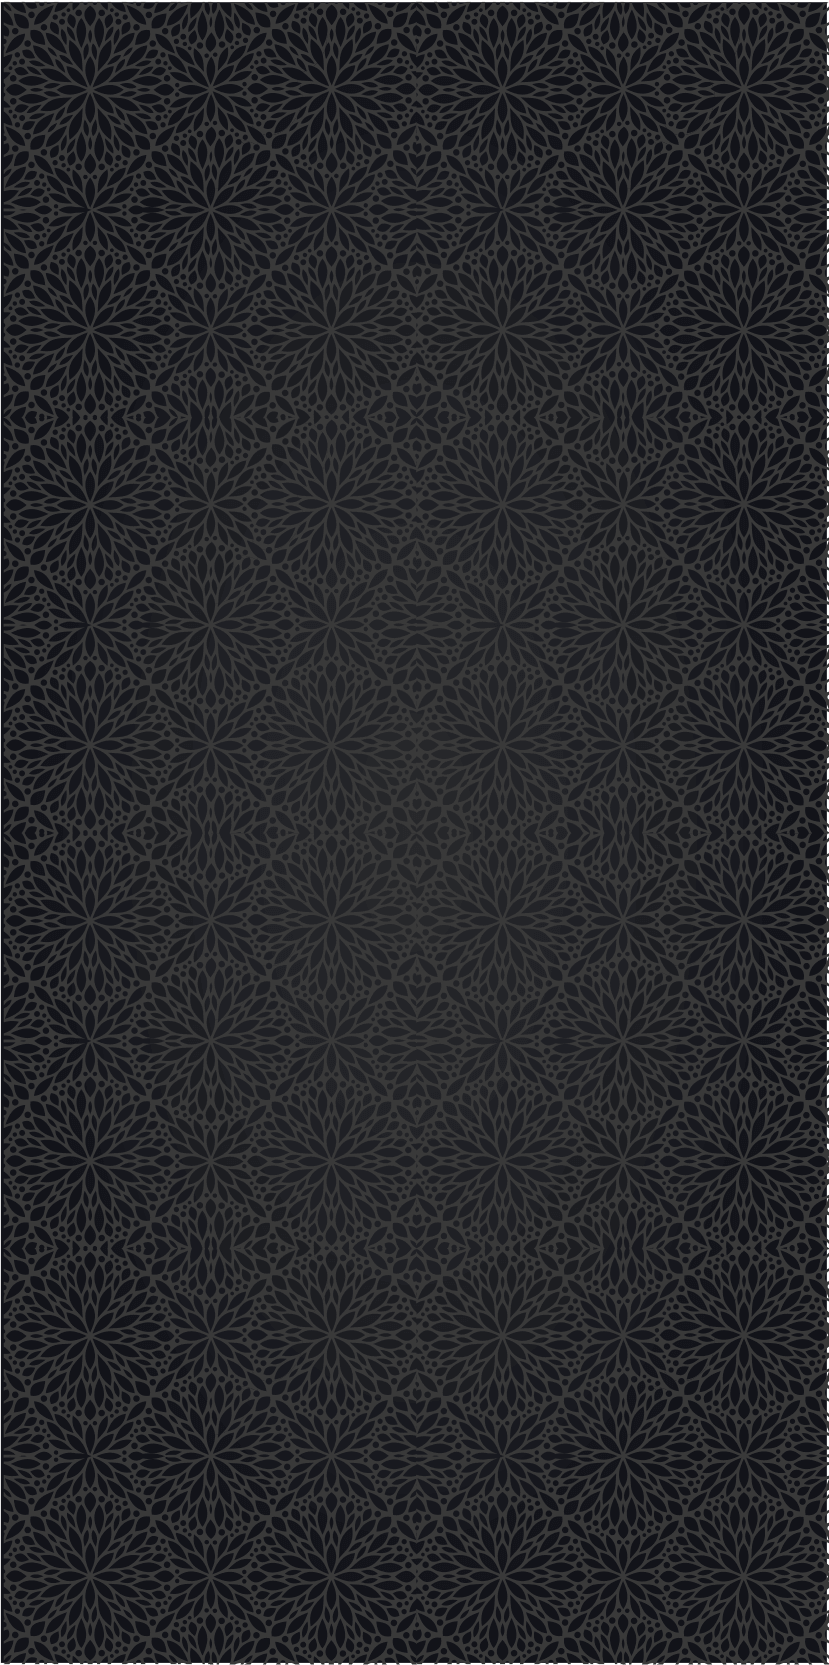
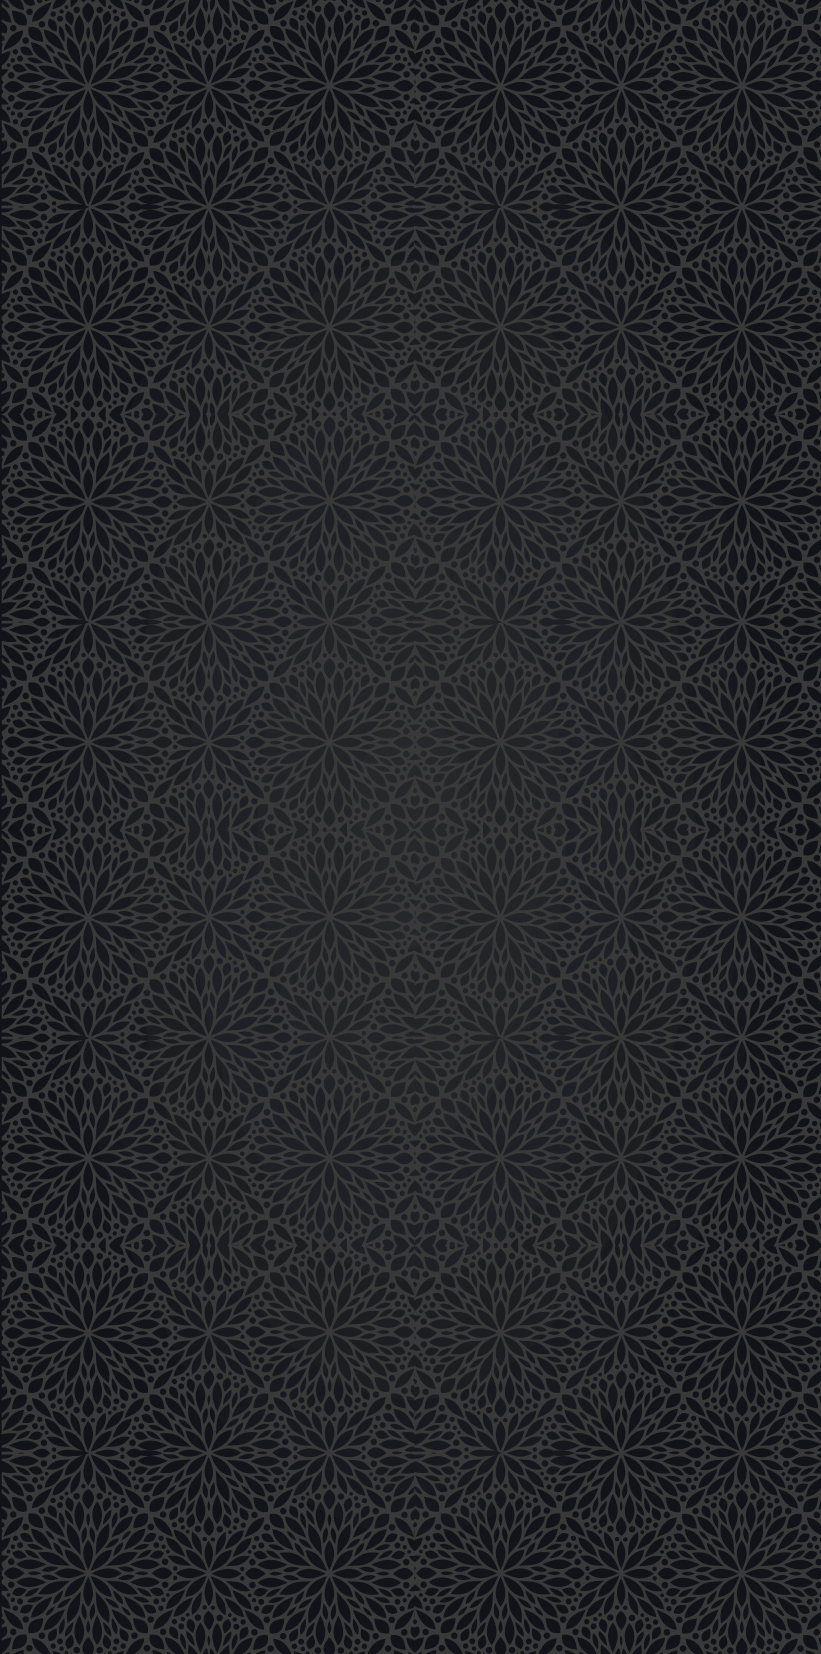
feat: new palette restyling done

Changed region(s): [[0.0, 0.0, 1.0, 1.0], [0.335, 0.1542, 0.3959, 0.185]]

diff --git a/Assets/Scripts/Coloring/Coloring.cs b/Assets/Scripts/Coloring/Coloring.cs
@@ -704,7 +704,8 @@ public class Coloring : MonoBehaviour {
         //toneRect = new Rect(0, 1948 * scale_y, Screen.width, 150 * scale_y);
         //simo : TONE RECT MOVED
 
-        toneRect = new Rect (0, 1948 * scale_y-(float)(Screen.height * 0.12f), Screen.width, 130 * scale_y);
+        // Keep a small visual gap between swatch row and linear palette.
+        toneRect = new Rect (0, 1948 * scale_y-(float)(Screen.height * 0.12f) + 22f * scale_y, Screen.width, 130 * scale_y);
 		bannerRect=new Rect (0 * scale_x, 1848 * scale_y, Screen.width, 200 * scale_y);
 		pencilRect = new Rect[pencils.Length-1];
         palettePreviewColors = new Color[pencilRect.Length];
@@ -1589,9 +1590,7 @@ public class Coloring : MonoBehaviour {
     // simo : draw cover rect to avoid touch
     void DrawCoverRectAvoidingTouch()
     {
-        coverRectAvoidingTouchImg = Resources.Load<Texture2D>("Graphics/UIIcons/coverRectSemiTransparent");
-
-        GUI.DrawTexture(coverRectAvoidingTouch, coverRectAvoidingTouchImg);
+        // Intentionally left blank: keep touch-blocking rect logic without visual overlay.
     }
 
 
@@ -1754,7 +1753,7 @@ public class Coloring : MonoBehaviour {
             Rect slot = pencilRect[pencilIndex];
             float diameter = Mathf.Min(slot.width, slot.height) * 0.62f;
             float centerX = slot.x + slot.width * 0.5f;
-            float centerY = slot.y + slot.height * 0.52f;
+            float centerY = slot.y + slot.height * 0.42f;
             float border = pencilIndex == selectedToneIndex ? 7f * scale_x : 4f * scale_x;
 
             Rect outerCircle = new Rect(centerX - diameter * 0.5f - border, centerY - diameter * 0.5f - border, diameter + border * 2f, diameter + border * 2f);
